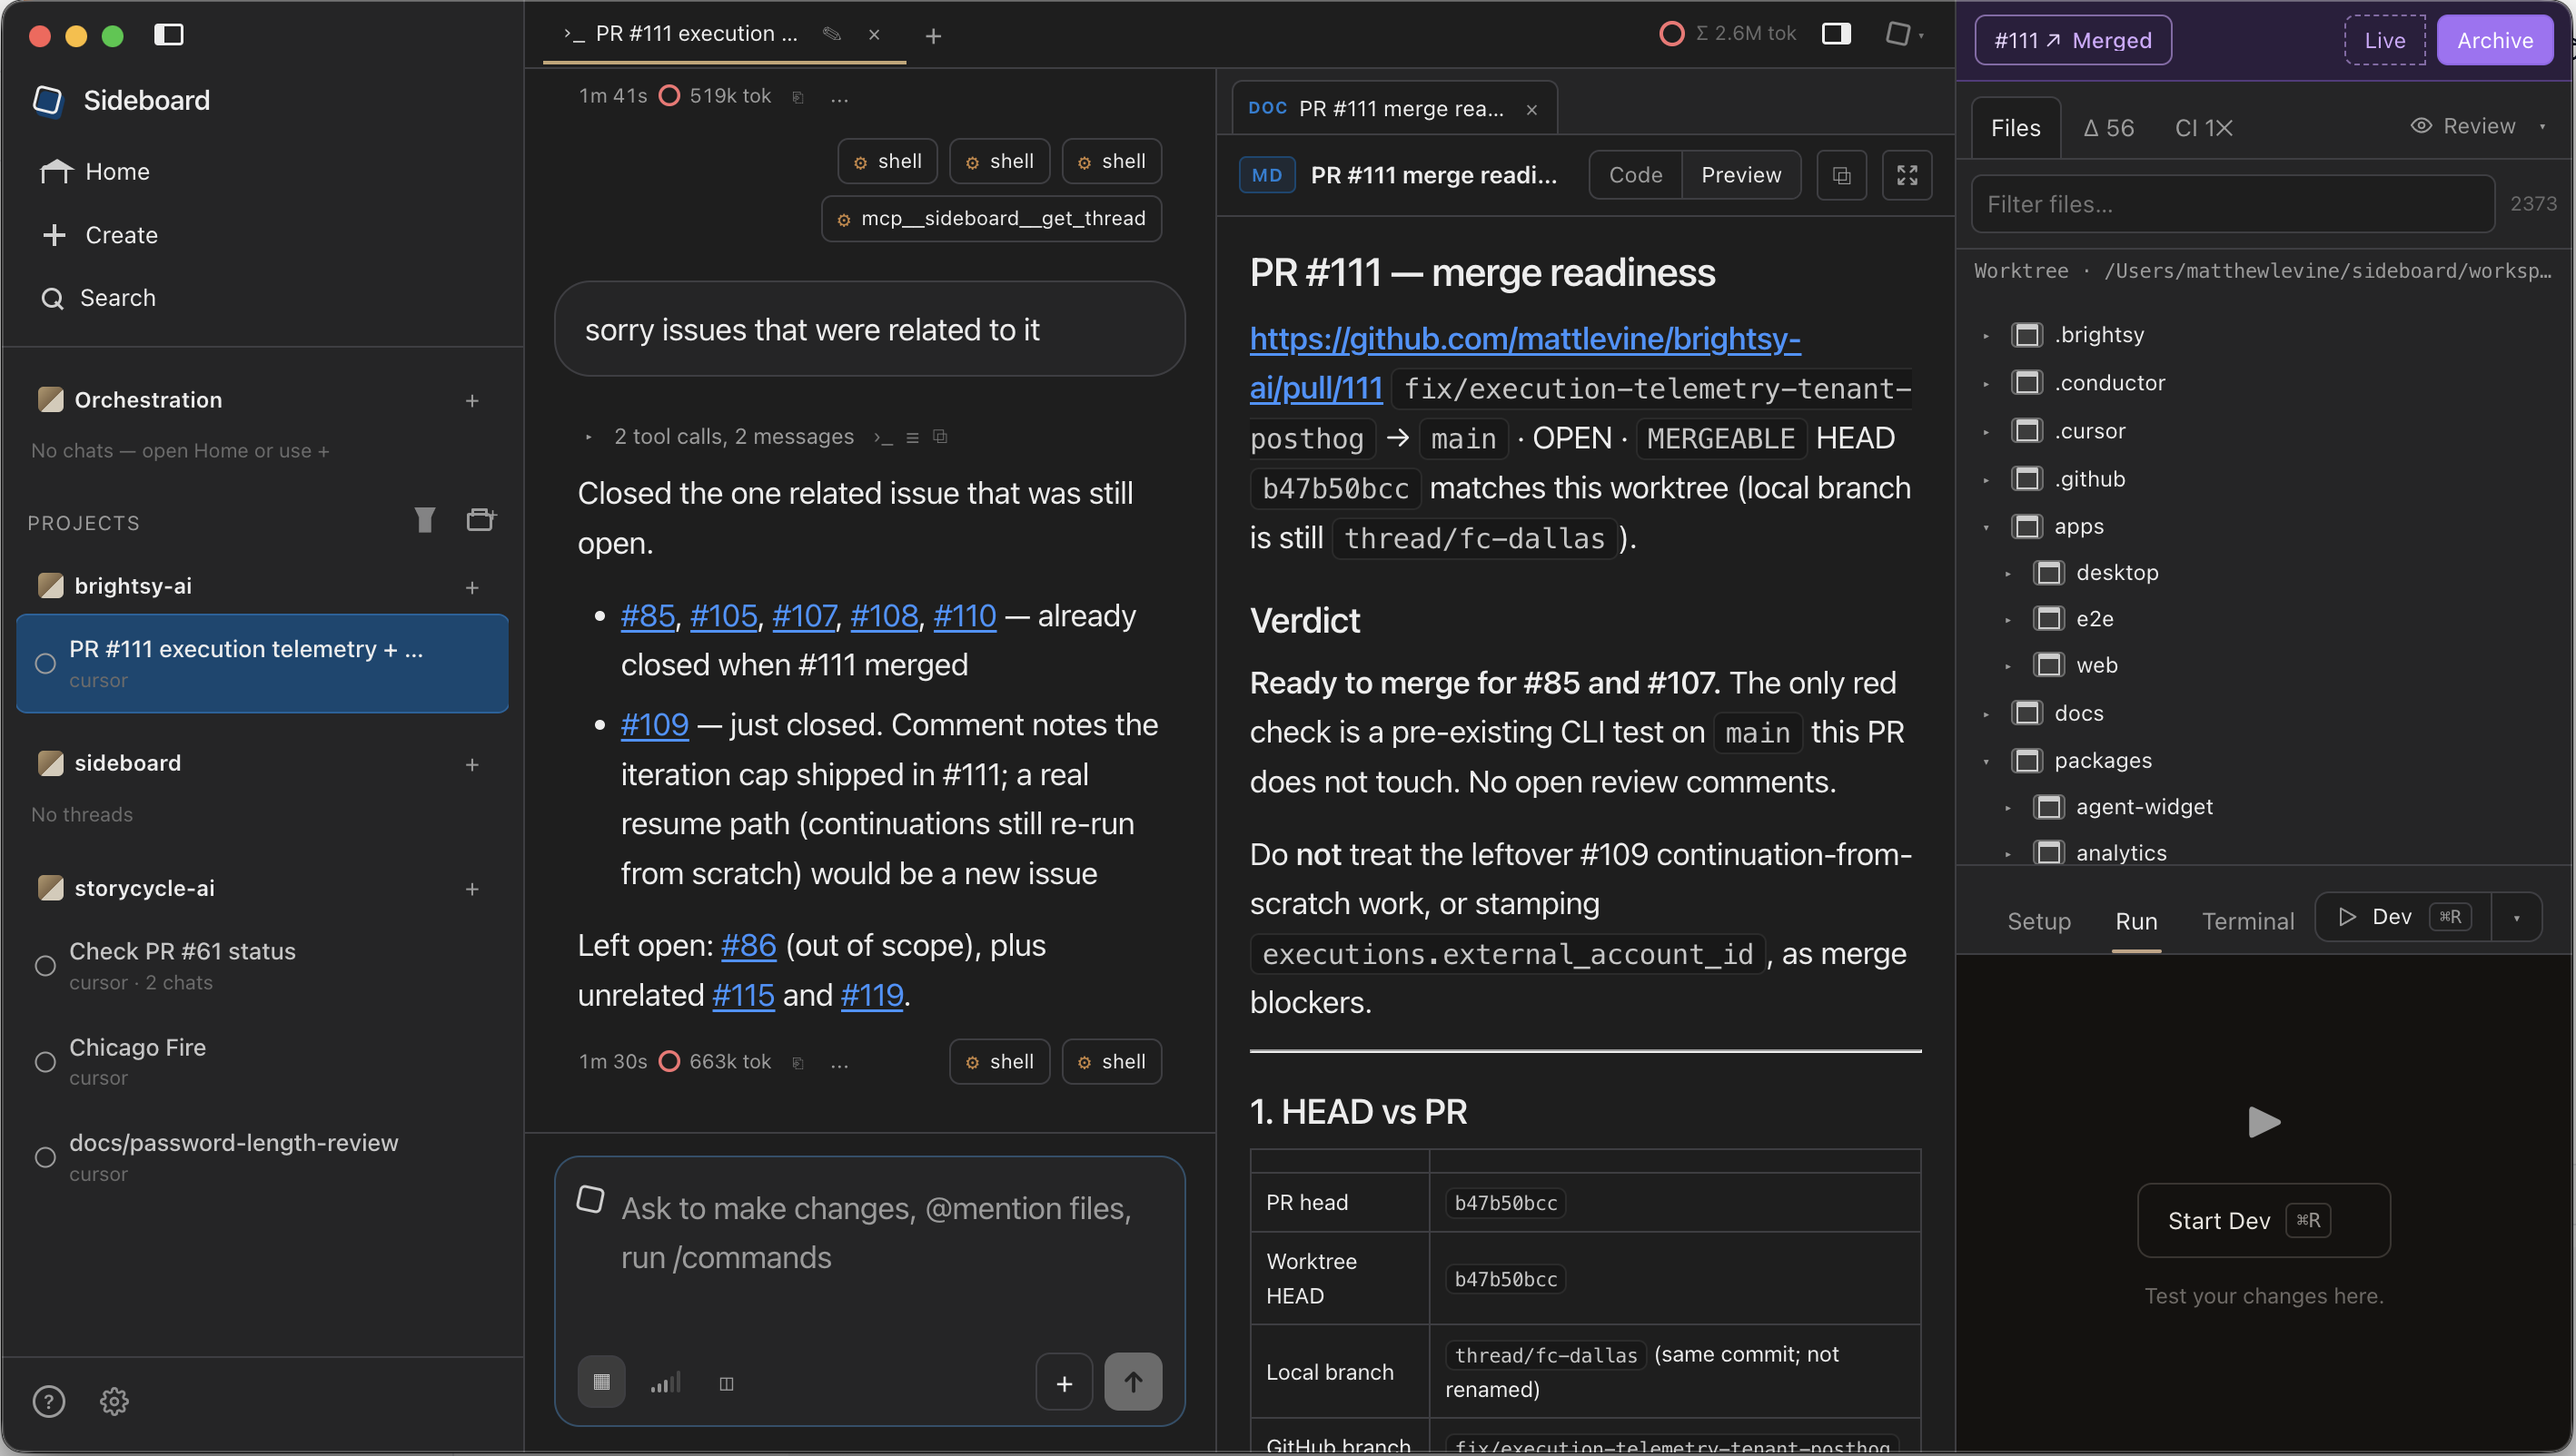
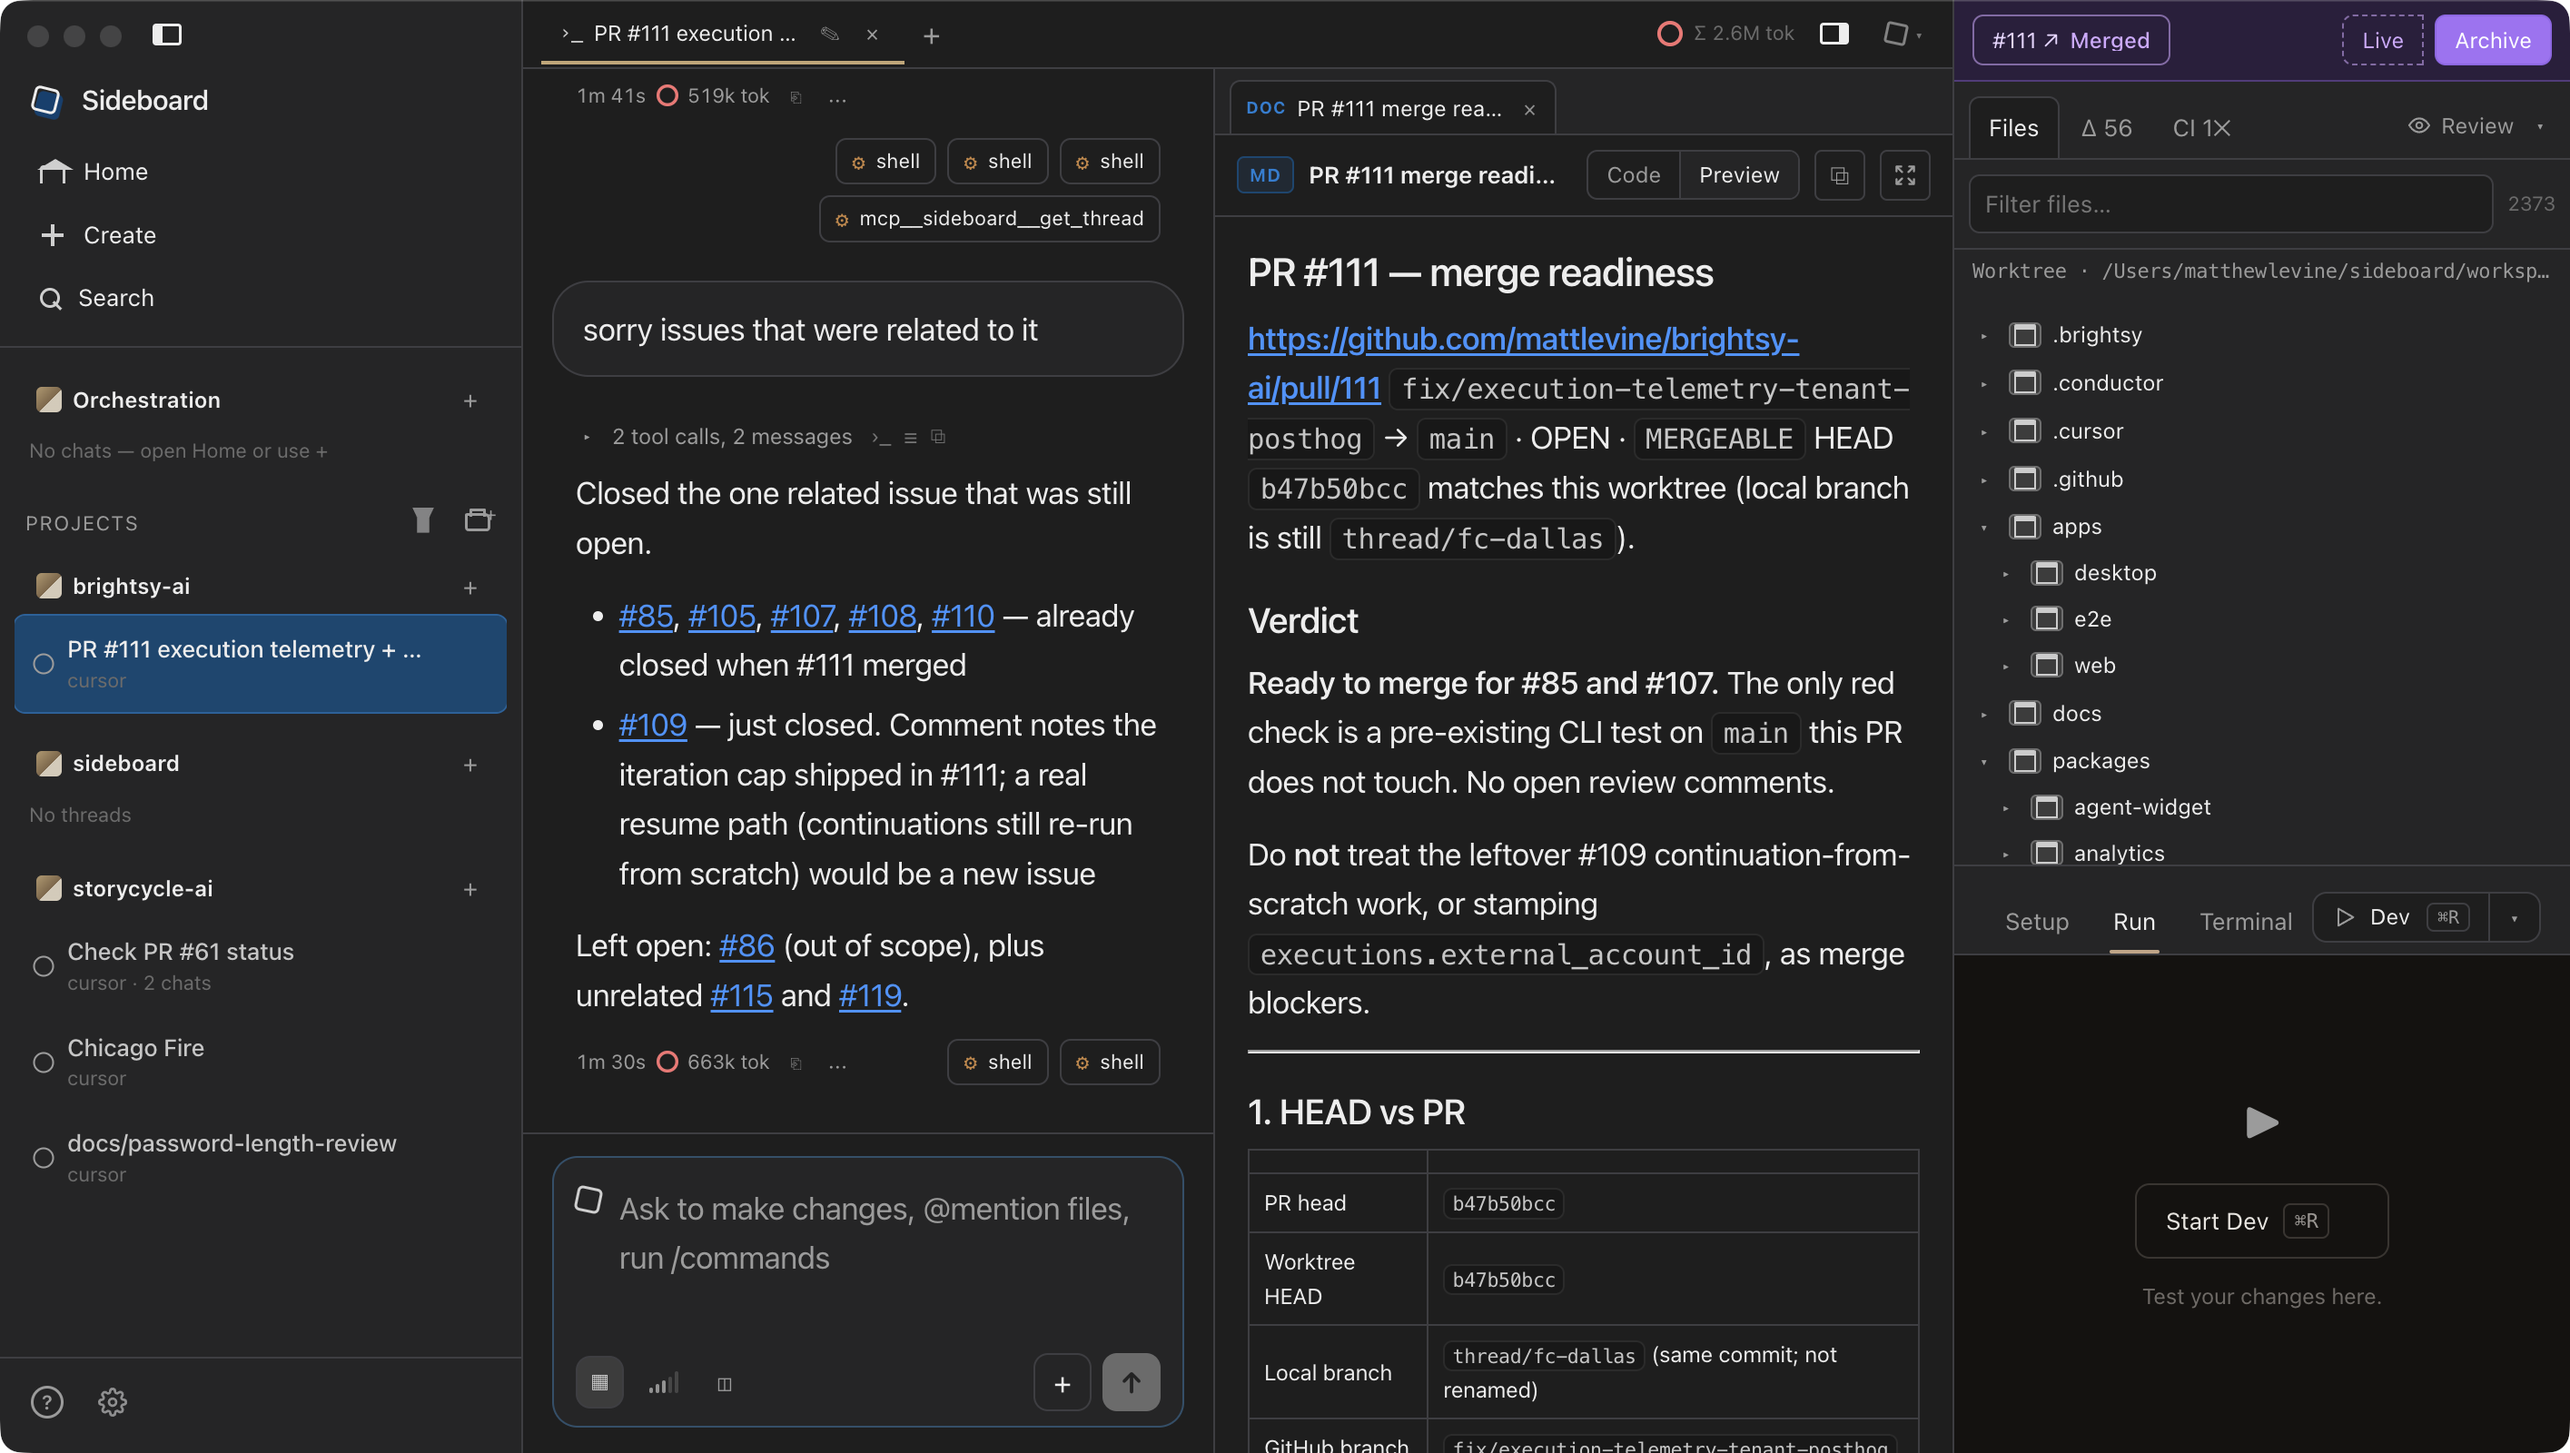
Use a native-resolution Sideboard window capture for the README and site hero.

diff --git a/site/index.html b/site/index.html
@@ -50,7 +50,7 @@
 </section>
 
 <section style="max-width:1180px;margin:0 auto;padding:56px 40px 0">
-<div style="border-radius:28px;overflow:hidden;border:1px solid #2c3036;box-shadow:0 24px 60px rgba(0,0,0,.45)"><img src="desktop.png" width="2836" height="1604" alt="Sideboard desktop — chat with a Document artifact preview, worktree files, and the run panel" style="display:block;width:100%;height:auto"></div>
+<div style="border-radius:28px;overflow:hidden;border:1px solid #2c3036;box-shadow:0 24px 60px rgba(0,0,0,.45)"><img src="desktop.png" width="2830" height="1600" alt="Sideboard desktop — chat with a Document artifact preview, worktree files, and the run panel" style="display:block;width:100%;height:auto"></div>
 <p style="font-size:13.5px;color:#8b949c;margin-top:14px">One worktree chat: the agent thread in the middle, artifacts and schema tabs beside it, the git repo on the far right.</p>
 </section>
 

diff --git a/CHANGELOG.md b/CHANGELOG.md
@@ -9,7 +9,7 @@ and this project adheres to [Semantic Versioning](https://semver.org/spec/v2.0.0
 
 ### Changed
 
-- README and marketing-site hero screenshot refreshed (`sideboard-desktop-review-v5.png`, `site/desktop.png`) at native 2836×1604 PNG so it stays sharp on retina.
+- README and marketing-site hero screenshot refreshed (`sideboard-desktop-review-v5.png`, `site/desktop.png`) at native 2830×1600 PNG so it stays sharp on retina.
 
 ## [0.1.101] - 2026-08-20
 
